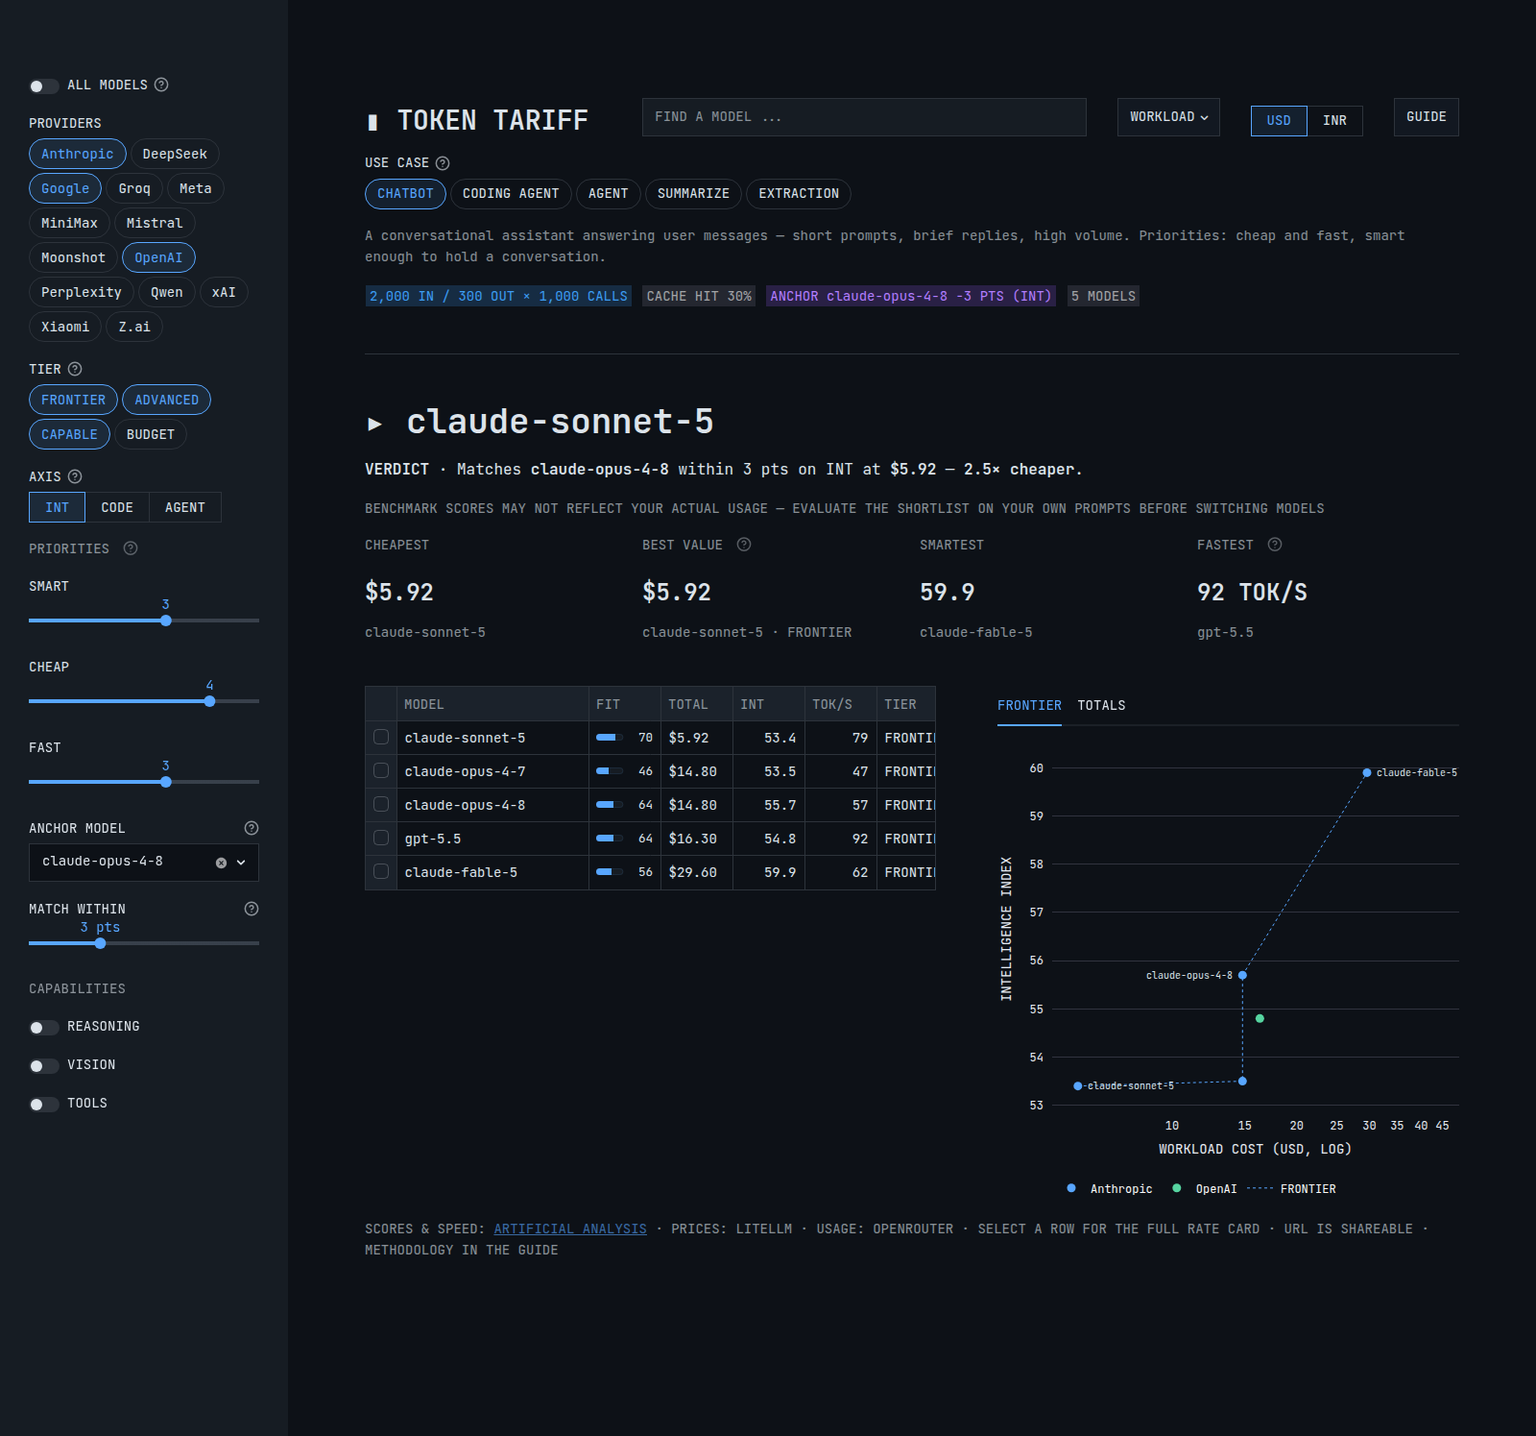
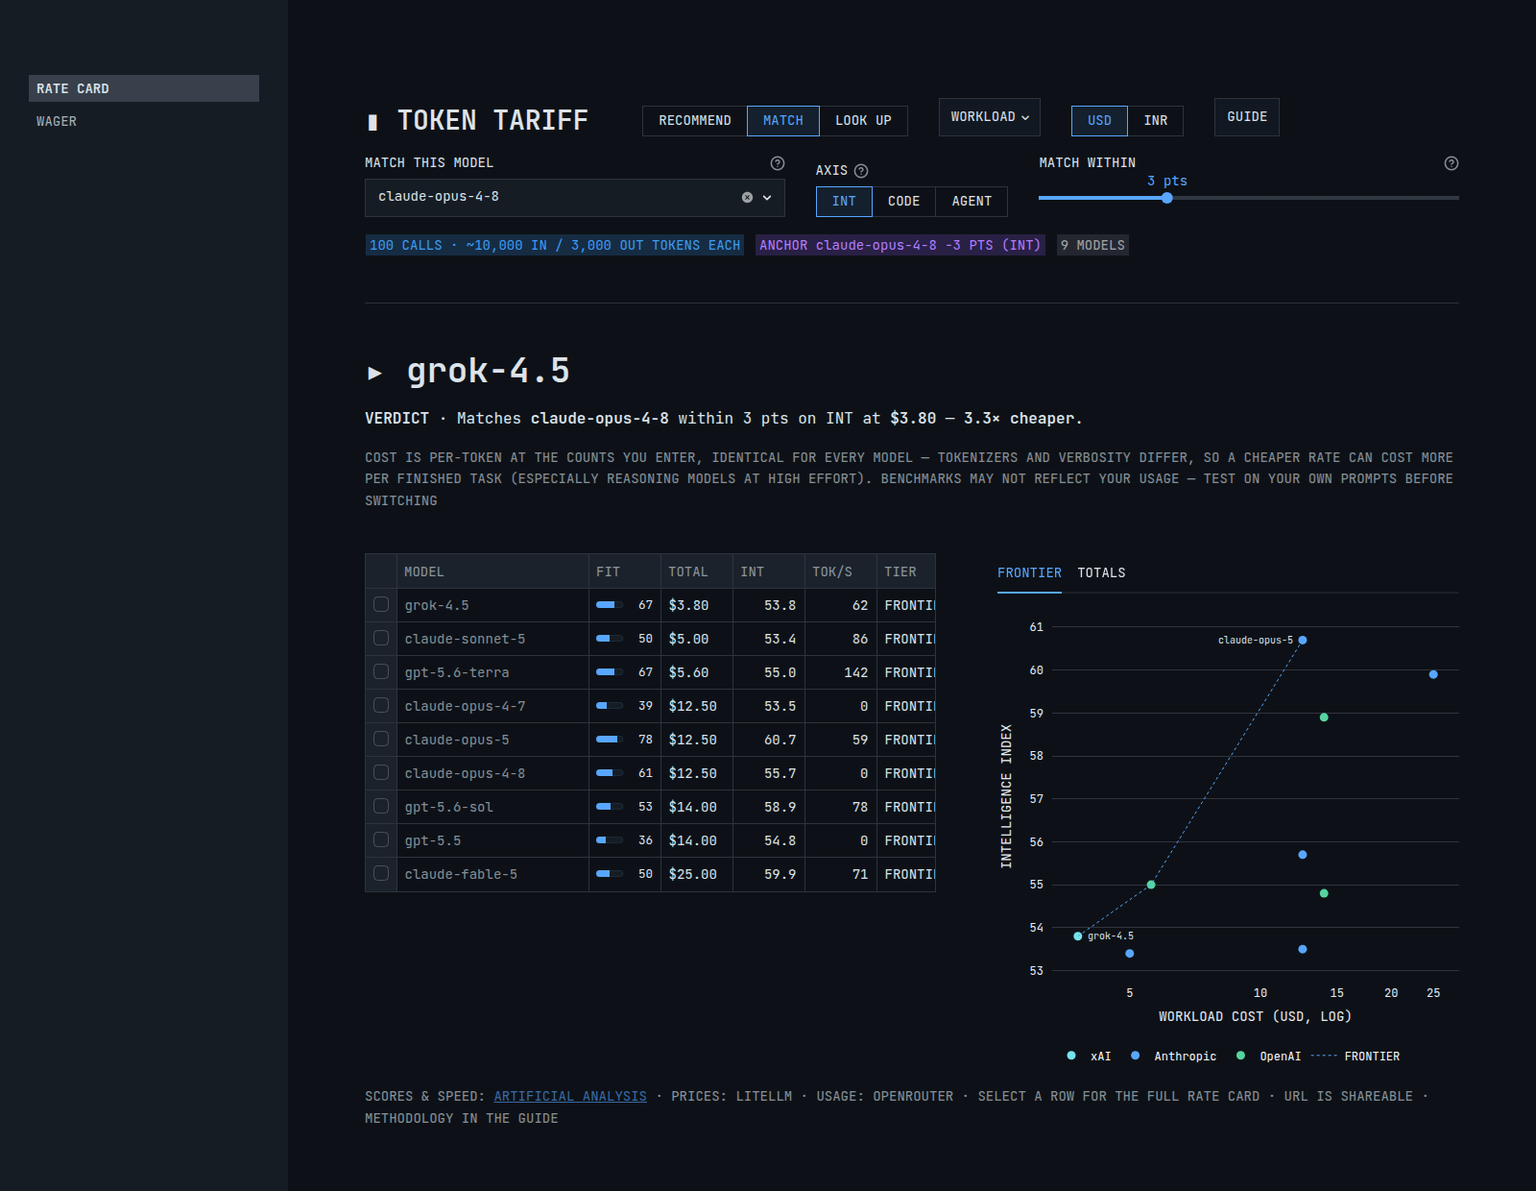
refresh the readme and screenshots for both reworked pages

diff --git a/README.md b/README.md
@@ -4,18 +4,18 @@
 
 **▸ [Live app — token-tariff.streamlit.app](https://token-tariff.streamlit.app/)**
 
-Pick a use-case preset (chatbot, coding agent, summarization, …) or dial in your own workload — tokens per call, number of calls, cache-hit rate, reasoning overhead, batch pricing. A **verdict** at the top names one model and why; below it, a ranked ledger with scores, speed, and real usage, an efficient-frontier chart, and quick cuts (cheapest / best value / smartest / fastest). Every control lives in the URL, so any comparison is a shareable link. Prices and scores refresh hourly from live feeds — nothing is hand-maintained.
+Three modes, one per question. **RECOMMEND** — *what should I use?* Pick a use-case preset (chatbot, coding agent, summarization, …), shape the workload (tokens per call, number of calls, cache-hit rate, reasoning overhead, batch pricing), say what to optimize for, and a **verdict** names one model and why, with a cheaper option and a more capable one beside it. **MATCH** — *the same for less:* name the model you run today and see who holds its score for a smaller bill. **LOOK UP** — *what does X cost?* the whole catalog, searchable, unscored models included. Under every mode: a ranked ledger with scores, speed and real usage, and an efficient-frontier chart. Every control lives in the URL, mode included, so any comparison is a shareable link. Prices and scores refresh hourly from live feeds — nothing is hand-maintained.
 
 <table>
 <tr>
 <td width="50%" valign="top">
-<b>① Verdict-led picking</b><br/>
-<sub>One recommended model with its reasons, four single-metric cuts, a cost-ranked ledger, and the efficient frontier.</sub><br/>
+<b>① RECOMMEND — verdict-led picking</b><br/>
+<sub>One recommended model with its reasons, the alternatives worth a second look, a cost-ranked ledger, and the efficient frontier.</sub><br/>
 <a href="screenshots/01-verdict.png"><img src="screenshots/01-verdict.png" alt="Verdict, quick cuts, ranked ledger, and efficient-frontier chart"/></a>
 </td>
 <td width="50%" valign="top">
-<b>② Anchor — same smarts, less money</b><br/>
-<sub>Pick a reference model; the view keeps only models that match or beat it and names the cheapest. Here: claude-opus-4-8's intelligence for 2.5× less.</sub><br/>
+<b>② MATCH — same smarts, less money</b><br/>
+<sub>Name the model you run today; the view keeps only models that match or beat it and names the cheapest. Here: claude-opus-4-8's intelligence for 3.3× less.</sub><br/>
 <a href="screenshots/02-anchor.png"><img src="screenshots/02-anchor.png" alt="Anchor mode: cheapest model matching claude-opus-4-8 within tolerance"/></a>
 </td>
 </tr>
@@ -35,11 +35,12 @@ Pick a use-case preset (chatbot, coding agent, summarization, …) or dial in yo
 
 ## How it helps you decide
 
-- **Use-case presets** — CHATBOT / CODING AGENT / AGENT / SUMMARIZE / EXTRACTION each set a typical workload shape, the matching score axis (intelligence, coding, or agentic), a sensible tier range, the tools filter, and the priority weights in one click — with a plain-language note on what they model. Everything stays editable, and an in-app **GUIDE** walks through every control.
-- **Priorities → verdict** — SMART / CHEAP / FAST sliders produce a **FIT** score (0–100) per model, and the verdict names the best fit and its reasons. FIT is a weighted blend of *percentile ranks* within the current view — score rank, cheapness rank, speed rank — so one extreme outlier can't dominate.
-- **Anchor query** — pick a reference model and the field narrows to models that match or beat its score (within your tolerance), ranked by workload cost: *"who matches this model's intelligence for less?"*
+- **Use-case presets** — CHATBOT / CODING AGENT / AGENT / SUMMARIZE / EXTRACTION each set a typical workload shape, the matching score axis (intelligence, coding, or agentic), a sensible tier range, the required capabilities, and the priority weights in one click — with a plain-language note on what they model. Everything stays editable; edit anything and a PRESET MODIFIED chip offers the way back. An in-app **GUIDE** walks through every mode.
+- **Optimize for → verdict** — BALANCED / SMARTEST / CHEAPEST / FASTEST sets the SMART / CHEAP / FAST weights behind a **FIT** score (0–100) per model, and the verdict names the best fit and its reasons; the individual sliders sit under ADVANCED, and weights outside the four read as CUSTOM. FIT is a weighted blend of *percentile ranks* within the current view — score rank, cheapness rank, speed rank — so one extreme outlier can't dominate. It stays a table column: the number moves with the filtered set, the reasons don't.
+- **One verdict, two alternatives** — a CHEAPER OPTION (costs less, gives up at most 5 index points) and a MORE CAPABLE OPTION (at least 3 points better, at the lowest cost that buys them), each stating its tradeoff. Neither appears unless something qualifies.
+- **MATCH** — name the model you run today and the field narrows to models that match or beat its score (within your tolerance), ranked by workload cost: *"who matches this model's intelligence for less?"*
+- **LOOK UP** — find any model by name, maker, or LiteLLM key across the full catalog, unscored models included; an empty box lists everything.
 - **Efficient frontier** — score vs. workload cost on a log axis with the Pareto frontier drawn; everything below the line is beaten on both price and score.
-- **Search** — look up any model by name, maker, or LiteLLM key across the full catalog, bypassing the filters.
 - **Axis toggle** — general intelligence, coding, or agentic index; specialized models rank very differently.
 
 ## Where the data comes from
@@ -58,7 +59,7 @@ Every fetch is cached for an hour and written to a local JSON snapshot (`model_p
 **The catalog is computed, not curated:**
 
 - **Default view** — every model with both a price and a score (~110 across all major makers).
-- **ALL MODELS** — adds the unscored remainder of the pricing catalog (~250 more).
+- **LOOK UP** — adds the unscored remainder of the pricing catalog (~120 more).
 - Duplicate routes (direct API vs. OpenRouter vs. Groq) and spelling/word-order aliases collapse to one row per model — the maker's own API wins, else the cheapest route.
 - Dated snapshots collapse onto their base model; deprecated and zero-priced entries are dropped.
 - **Tiers** (FRONTIER / ADVANCED / CAPABLE / BUDGET) are live quartiles of the intelligence index across scored models, so they track the field as it moves.
@@ -92,7 +93,7 @@ AA_API_KEY = "your-key"          # https://artificialanalysis.ai/ — free, 1,00
 OPENROUTER_API_KEY = "your-key"  # https://openrouter.ai/ — datasets API
 ```
 
-- `AA_API_KEY` keeps speed (TOK/S, FASTEST cut, TTFT, the FAST priority) and the expanded score coverage live.
+- `AA_API_KEY` keeps speed (TOK/S, TTFT, the FAST priority) and the expanded score coverage live.
 - `OPENROUTER_API_KEY` keeps usage (USE B/D, tokens/day on the rate card) live.
 
 Without a key, each feed serves its committed snapshot — everything still renders, it just ages until the next keyed refresh; elements with no data hide gracefully.
@@ -103,8 +104,9 @@ Every control is bound to the URL, so any view is a shareable link.
 
 | Parameter | Meaning | Example |
 |---|---|---|
-| `preset` | Use-case preset | `?preset=CODING+AGENT` |
-| `q` | Model search (bypasses filters) | `?q=kimi` |
+| `mode` | RECOMMEND, MATCH, or LOOK UP | `?mode=MATCH` |
+| `preset` | Use-case preset (RECOMMEND) | `?preset=CODING+AGENT` |
+| `q` | Model search (LOOK UP) | `?q=kimi` |
 | `prov` | Provider filter (repeatable) | `?prov=Anthropic&prov=Google` |
 | `tiers` | Tier filter (repeatable) | `?tiers=FRONTIER` |
 | `input_tokens` | Input tokens per call | `?input_tokens=50000` |
@@ -113,62 +115,71 @@ Every control is bound to the URL, so any view is a shareable link.
 | `cache` | Prompt-cache hit rate (%) | `?cache=80` |
 | `rmult` | Reasoning output multiplier | `?rmult=3.0` |
 | `batch` | Batch API pricing | `?batch=true` |
-| `w_smart` / `w_cheap` / `w_fast` | Priority weights (0–5) | `?w_fast=5` |
-| `anchor` | Anchor model (its catalog name) | `?anchor=claude-opus-4-8` |
-| `tol` | Anchor tolerance (points) | `?tol=3` |
+| `opt` | Optimize for (weights outside the four read as CUSTOM) | `?opt=CHEAPEST` |
+| `w_smart` / `w_cheap` / `w_fast` | Priority weights (0–5), and what `opt` writes | `?w_fast=5` |
+| `anchor` | Reference model, by catalog name (MATCH) | `?anchor=claude-opus-4-8` |
+| `tol` | Match tolerance (points) | `?tol=3` |
 | `axis` | Score axis | `?axis=CODE` |
-| `all` | Include unscored models | `?all=true` |
+| `caps` | Required capabilities (repeatable) | `?caps=VISION&caps=TOOLS` |
 | `ccy` | Display currency | `?ccy=INR` |
-| `need_r` / `need_v` / `need_t` | Require reasoning / vision / tools | `?need_v=true` |
 
 ## The WAGER page
 
 A second page, **WAGER**, asks a different question from the calculator: not what a
 model costs today, but how long the frontier stays the frontier. Frontier
-intelligence keeps arriving at the bottom of every vendor's lineup a few months
-later at a fraction of the price — the page shows that history from sourced data
-and then stakes a falsifiable claim on the next repetition.
+intelligence keeps arriving at the cheapest slot in every vendor's lineup a few
+months later at a fraction of the price — the page shows that history from sourced
+data and then stakes a falsifiable claim on the next repetition.
 
-**The claim.** A lineup-bottom model — the cheapest model its vendor ships — will
-match Claude Fable 5, the frontier as of June 2026, on one of two yardsticks:
-METR's 50% time horizon, or the Artificial Analysis intelligence index at no more
-than a tenth of Fable 5's price.
+**The claim.** By **June 27, 2027**, an entry-level model will match Claude Fable
+5 — the frontier as of June 2026 — on the Artificial Analysis intelligence index
+at no more than a tenth of Fable 5's price.
 
-**Resolves YES** on the earlier of two conditions:
+**Resolves YES** when one entry-level model from Anthropic, OpenAI or Google
+reaches Fable 5's launch **Artificial Analysis** index of 59.9, compared inside a
+single AA snapshot, at **$2.00 per MTok or less** on a fixed 3:1 input:output
+blend. Both terms, one model, at one time. That single arm is the whole rule —
+nothing else settles it.
 
-- **METR** measures any lineup-bottom model at or above Fable 5's 50% time horizon; or
-- a lineup-bottom model reaches Fable 5's launch **Artificial Analysis** index of 59.9, compared inside a single AA snapshot, at no more than one tenth of Fable 5's cost per token.
+**Resolves NO** when none does by 23:59 UTC on 2027-06-27. The evidence has to be
+public by that instant; the AA snapshot and vendor price page proving it may be
+captured up to 14 days later.
 
-*Lineup bottom* means the cheapest model a vendor ships in its current lineup —
-Claude Haiku, OpenAI's mini / nano / Luna slot, Gemini Flash-Lite. Membership is
-lineup position; price is data, not the qualification.
+*Entry-level model* means the slot a vendor designates as its cheapest in its
+current lineup — Claude Haiku, OpenAI's mini / nano / Luna slot, Gemini
+Flash-Lite. It is the slot, not the price tag: an older, cheaper model still on
+sale does not disqualify the current one, and a renamed or replaced slot inherits
+eligibility.
 
-| Scenario | Date | Method |
+| Lens | Date | How it gets there |
 |---|---|---|
-| **Method B** — price decline | 2027-01-10 | Epoch AI's median 50×/year fall in the price of a fixed capability, counted from Fable 5's release. The wager's price term is a ratio, so this is just the time for a tenfold fall — independent of either sticker price. |
-| **Method A** — historical lag | 2027-03-08 | Median 8.9-month lag over 10 matched pairs, from a frontier model setting a new index high to the first bottom-tier model reaching it. |
-| Slowest historical trend | 2027-06-27 | Method B at the slowest decline Epoch fitted, 9×/year. Not a confidence bound. |
+| **Price decline** | 2027-01-10 | Epoch AI's median 50×/year fall in the price of a fixed capability, counted from Fable 5's release. The wager's price term is a ratio, so this is just the time for a tenfold fall — independent of either sticker price. |
+| **Historical lag** | 2027-03-08 | Median 8.9-month lag over 10 matched pairs, from a frontier model setting a new index high to the first entry-level model reaching it. |
+| Slowest fitted trend | 2027-06-27 | The price-decline lens at the slowest decline Epoch fitted, 9×/year. The deadline is set here: a trend slower than anything measured would still have landed by this date. Not a confidence bound. |
 
 **These are two illustrative scenarios, not a calibrated forecast.** They land
 two months apart, which is not corroboration: capability diffusion and price
 decline are two views of the same underlying trend, so both dates ride on it
-together. Neither is good to better than a season.
+together. Neither is good to better than a season. January 10 and March 8 are the
+forecast; June 27 is the resolution bound — missing the window is not a NO,
+missing the deadline is.
 
-Three caveats do most of the work.
+Four caveats do most of the work.
 
+- **Matching the index is not general equivalence.** The AA index is an exam-style composite: long-context behaviour and agentic reliability are not in it, and a verbose entry-level model can cost more per finished task than a frontier model at ten times the per-token rate.
+- **The arm is a joint event** — the index *and* a tenth of the price, together. The historical-lag lens tracks only capability and the price-decline lens only price, and 3 of the 9 historical matches with a known price cleared the index at less than a tenfold price gap, so they would have failed this wager's own price term.
+- **METR is a secondary check, and non-binding.** It has measured no entry-level model in either suite version, and none of Fable 5 either, so it cannot be read today. If both ends are ever measured on one suite version before the deadline, an entry-level model at or above the proxy's p50 is corroboration and nothing more.
 - **METR's 50% threshold is not its 80%** — the Mythos preview measures 1,044.8 min at 50% but 185.9 min at 80%.
-- **METR has measured no bottom-tier model at all**, in either suite version, which is why the wager resolves on the AA index in practice.
-- **The index arm is a joint event** — the index *and* a tenth of the price, together. Method A tracks only capability and Method B only price, and 3 of the 9 historical matches with a known price cleared the index at less than a tenfold price gap, so they would have failed this wager's own price term.
 
-The 10 matched pairs behind Method A come from only **5 catch-up releases** — one
-cheap model can clear three standing frontier highs at once — so treat the
-effective sample as 5.
+The 10 matched pairs behind the historical-lag lens come from only **5 catch-up
+releases** — one cheap model can clear three standing frontier highs at once — so
+treat the effective sample as 5.
 
 ### Data and refresh
 
 | Data | Source |
 |---|---|
-| **50% / 80% time horizons** | [METR](https://metr.org/time-horizons/), from the published `benchmark_results_1_1.yaml` behind their chart |
+| **50% / 80% time horizons** — the non-binding secondary check | [METR](https://metr.org/time-horizons/), from the published `benchmark_results_1_1.yaml` behind their chart |
 | **Intelligence index** | [Artificial Analysis](https://artificialanalysis.ai/), via OpenRouter's listing (read 2026-08-01) and this repo's committed AA API payload (vintage ≤2026-07-05). Each row's `aa_version` says which. Where a model publishes several configurations, the highest-scoring one is recorded, for every row. |
 | **Price-decline rate** | [Epoch AI](https://epoch.ai/data-insights/llm-inference-price-trends) — 9× to 900× per year, median 50× |
 | **Prices and release dates** | Vendor announcements and pricing docs, archived where the vendor blocks fetches |
@@ -190,17 +201,23 @@ Then run the `/timeline-refresh` skill, which turns that diff into sourced
 
 `wager.json` is the **frozen** prediction the scheduled emails were built around.
 It is deliberately not kept in sync — the page shows a badge when live data has
-moved away from it, and that divergence is the point.
+moved away from it, and that divergence is the point. It is at version 2: a dated
+amendment record states what the 2026-08-03 clarification changed (the deadline,
+METR demoted to a secondary check, the entry-level definition written as a slot,
+the price ceiling stated as a number) and why, and v1 stays in git history. What
+must happen is unchanged.
 
 ### The scheduled letter
 
-`.github/workflows/wager-email.yml` sends two emails through Resend: a midpoint
-check on 2026-10-21, and the wager letter on 2027-01-10. Its cron fires on the
-10th and the 21st of each month — the day numbers of those two dates, so each
-letter arrives on its own date rather than up to a month late. Re-derive them if
-`wager.json` is ever re-frozen. A send counts as done when a labelled GitHub
-issue with its title exists, which is read from the API each run — a committed
-flag can disagree with reality whenever the write-back commit fails.
+`.github/workflows/wager-email.yml` sends three emails through Resend: a midpoint
+check on 2026-10-21, the wager letter on 2027-01-10, and the deadline reading on
+2027-06-28 — the morning after the cutoff, so the result is read against a closed
+question. Its cron fires on the 10th, 21st and 28th of each month — the day
+numbers of those three dates, so each letter arrives on its own date rather than
+up to a month late. Re-derive them if `wager.json` is ever re-frozen. A send
+counts as done when a labelled GitHub issue with its title exists, which is read
+from the API each run — a committed flag can disagree with reality whenever the
+write-back commit fails.
 
 **GitHub disables scheduled workflows after 60 days without repository activity.**
 The quarterly refresh commit is what keeps this one alive; if the repo goes quiet

diff --git a/.claude/skills/timeline-refresh/SKILL.md b/.claude/skills/timeline-refresh/SKILL.md
@@ -42,17 +42,18 @@ skipped and only the models OpenRouter routes carry AA scores.
 The feeds show prices and scores. They do not show announcements. Search the
 web for, since the previous snapshot's date:
 
-- **New lineup-bottom models.** The cheapest model in any major vendor's current
-  lineup — Claude Haiku, OpenAI's mini / nano / Luna slot, Gemini Flash-Lite. A
-  vendor renaming its bottom slot counts; a vendor adding a tier below the old
-  bottom counts, and the old bottom stops being the bottom.
+- **New entry-level models.** The slot a major vendor designates as its cheapest
+  in its current lineup — Claude Haiku, OpenAI's mini / nano / Luna slot, Gemini
+  Flash-Lite. A vendor renaming the slot counts, and the new name inherits it; a
+  vendor adding a tier below the old slot counts, and the old slot stops being
+  the entry level. An older, cheaper model still on sale does not take the slot.
 - **New frontier models**, and whether each set a new high on the AA index.
 - **Price events** — cuts, rises, promotional rates ending, intro pricing
   expiring.
 - **METR publications.** A new blog post, a new suite version, or new models in
   `benchmark_results_1_1.yaml`. Watch specifically for METR measuring any
-  bottom-tier model, which would make arm 1 of the wager resolvable for the
-  first time.
+  entry-level model, which would make the wager's secondary check readable for
+  the first time. It is non-binding: the index arm is what resolves the wager.
 - **Artificial Analysis index version changes.** AA re-scores older models when
   the index changes and tags no version in either feed. If the whole column has
   shifted, say so loudly — every lag pair and the wager's 59.9 threshold are
@@ -92,8 +93,9 @@ apply the accepted ones to `timeline.csv`.
 
 Column notes:
 
-- `tier` — `frontier` or `bottom`. Lineup position, not price. A cheap frontier
-  model is still frontier.
+- `tier` — `frontier` or `bottom`. The slot, not the price. A cheap frontier
+  model is still frontier. `bottom` is the entry-level slot: the value is data
+  and stays, but nothing a reader sees says "lineup bottom".
 - `metr_key` — the model's key in METR's YAML, or blank. The p50 and p80 cells
   must match that key exactly; `timeline_fetch.py` checks both.
 - `metr_source` — always the v1.1 URL. Never mix suite versions in one column:
@@ -120,16 +122,13 @@ has moved away from it, and that divergence is information. Only rewrite
 
 If it is re-frozen, three things must move with it: `tests/test_wager.py`, which
 pins every number; the `cron` in `.github/workflows/wager-email.yml`, whose
-day-of-month values are the day numbers of the two new due dates; and the README
+day-of-month values are the day numbers of the new due dates; and the README
 table. `uv run pytest -q` fails until they agree.
 
-One block nothing recomputes or tests: the prose in `narrative()` in
-`pages_src/wager_page.py` hardcodes the closest bottom model's score and the
-points-short gap ("scores 51.2 … 8.7 points short" at the 2026-08-01 freeze).
-After any refresh that changes either, update that sentence by hand or it
-silently goes stale.
+The page's prose recomputes from `timeline.csv` — the contender, the gap and the
+price ceiling are f-strings over the derivation, not sentences to hand-edit.
 
-If a bottom-tier model has reached the baseline's index at or under a tenth of
+If an entry-level model has reached the baseline's index at or under a tenth of
 its cost, the wager has resolved early. Say so plainly and check it is not an
 artefact of an AA index version change before treating it as real.
 
